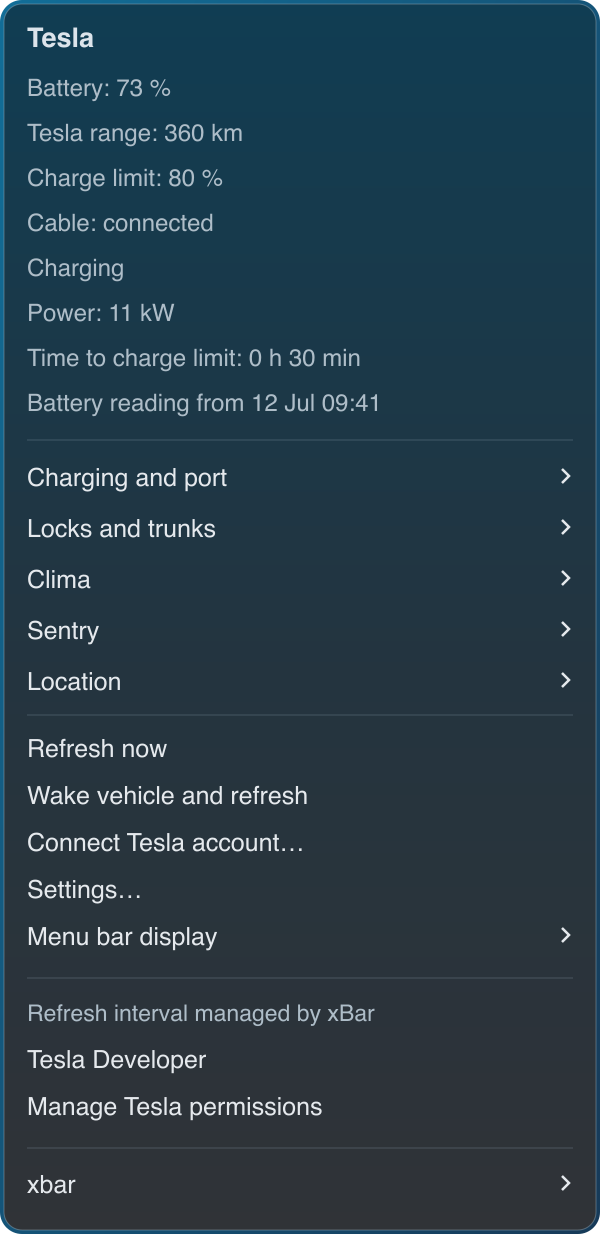
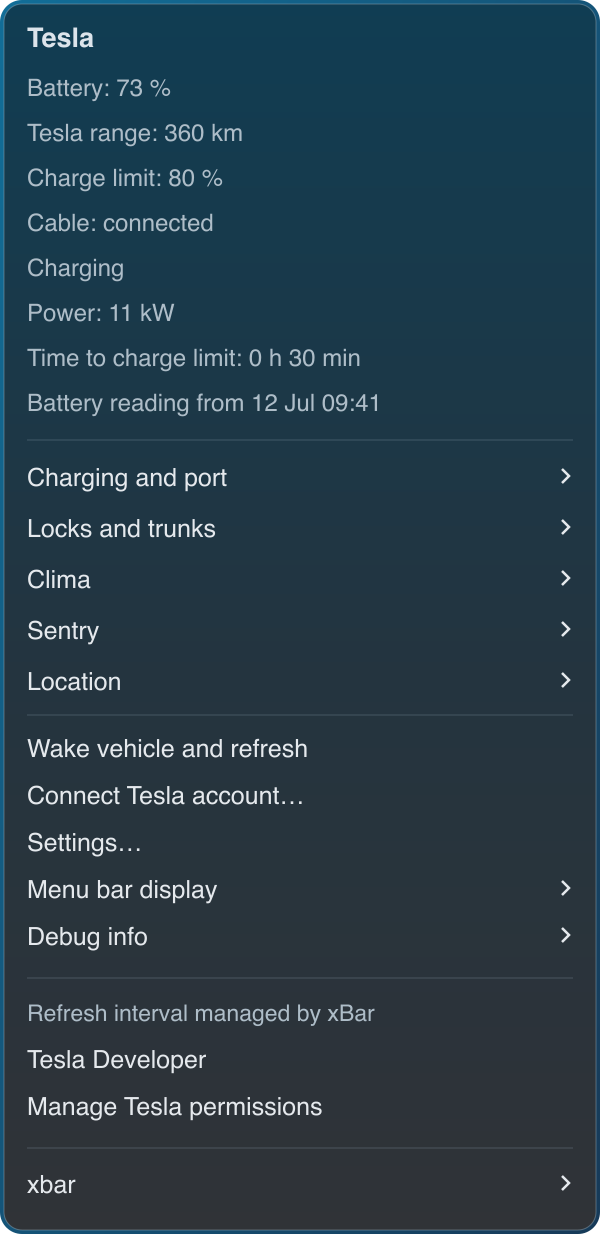
Remove separate Refresh now menu action

Changed region(s): [[0.03, 0.5851, 0.51, 0.7699], [0.93, 0.7083, 0.96, 0.7391]]

diff --git a/tests/test_polling.py b/tests/test_polling.py
@@ -177,11 +177,12 @@ class PollingTests(unittest.TestCase):
         self.assertNotIn("polling_paused", result.cache)
         self.assertEqual(self.gateway.commands, [])
 
-    def test_menu_refresh_action_is_distinct_from_the_scheduled_entrypoint(self):
+    def test_menu_uses_xbar_refresh_and_keeps_explicit_wake(self):
         menu = MenuRenderer(MenuContext(self.clock.now(), "/example/action")).render(self.baseline, self.config)
-        row = next(line for line in menu.splitlines() if line.startswith("Refresh now |"))
-        self.assertIn('param1="refresh"', row)
-        self.assertIn('terminal=false refresh=true', row)
+        self.assertNotIn("Refresh now", menu)
+        self.assertNotIn('param1="refresh"', menu)
+        self.assertIn("Wake vehicle and refresh", menu)
+        self.assertIn('param1="wake-refresh"', menu)
 
     def test_renewed_consent_allows_new_attempt_without_claiming_fresh_data(self):
         cache = self.baseline | {"consecutive_read_errors": 5, "read_retry_at": self.clock.now() + 3600}

diff --git a/scripts/render_previews.py b/scripts/render_previews.py
@@ -44,9 +44,9 @@ def divider(y):
 
 body += divider(440)
 for y, label, sub in [(486, 'Charging and port', True), (537, 'Locks and trunks', True), (588, 'Clima', True),
-                      (639, 'Sentry', True), (690, 'Location', True), (757, 'Refresh now', False),
-                      (804, 'Wake vehicle and refresh', False), (851, 'Connect Tesla account…', False),
-                      (898, 'Settings…', False), (945, 'Menu bar display', True)]:
+                      (639, 'Sentry', True), (690, 'Location', True), (757, 'Wake vehicle and refresh', False),
+                      (804, 'Connect Tesla account…', False), (851, 'Settings…', False),
+                      (898, 'Menu bar display', True), (945, 'Debug info', True)]:
     body += text(27, y, label, 25)
     if sub:
         body += f'<path d="m562 {y-17} 7 7-7 7" fill="none" stroke="#e5e9ed" stroke-width="2.5"/>'

diff --git a/tests/test_tesla_xbar.py b/tests/test_tesla_xbar.py
@@ -125,8 +125,7 @@ class Tests(unittest.TestCase):
         self.assertEqual(len(client.calls), 6)
         self.assertEqual(client.wakes, [])
         self.assertNotIn("poll_minutes", app.configuration())
-        row = next(line for line in app.render(fresh, config).splitlines() if line.startswith("Refresh now |"))
-        self.assertIn('param1="refresh"', row)
+        self.assertNotIn("Refresh now", app.render(fresh, config))
 
     def test_next_run_retries_network_or_sleep_error_without_local_delay(self):
         for error in (app.AppError("Offline"), app.APIError(408)):

diff --git a/src/tesla_bar/presentation/menu.py b/src/tesla_bar/presentation/menu.py
@@ -268,7 +268,7 @@ class MenuRenderer:
         lines.extend(self.clima_menu(cache, vehicle_action))
         lines.extend(self.sentry_menu(cache, vehicle_action))
         lines.extend(self.location_menu(cache, config))
-        lines.extend(["---", self.action("Refresh now", "refresh"),
+        lines.extend(["---",
                       vehicle_action("Wake vehicle and refresh", "wake-refresh"),
                       self.action("Connect Tesla account…", "authorize", terminal=True),
                       self.action("Settings…", "configure", terminal=True)])

diff --git a/docs/ARCHITECTURE.md b/docs/ARCHITECTURE.md
@@ -101,7 +101,7 @@ Existing behavior and adapter integration tests still cover raw Tesla responses,
 
 ## Desktop visibility and scheduling
 
-New installations use `tesla-battery.5m.sh`; updates preserve the existing filename. xBar remains the only scheduler. Every routine `menu` invocation checks `DesktopVisibility` before any Tesla or map work. The plugin’s explicit **Refresh now** uses a separate `refresh` request. The native probe has a three-second timeout; missing, malformed or failed probe results pause polling rather than silently sending requests.
+New installations use `tesla-battery.5m.sh`; updates preserve the existing filename. xBar remains the only scheduler. Every routine `menu` invocation checks `DesktopVisibility` before any Tesla or map work. The menu has no separate **Refresh now** action: built-in xBar refreshes use the same `menu` request as scheduled runs. The native probe has a three-second timeout; missing, malformed or failed probe results pause polling rather than silently sending requests.
 
 The probe checks that this user owns the console, the session is unlocked, at least one active display is awake, no display is covered by a screen-saver-level window, and AppKit reports the menu bar visible. An awake external display permits operation with the built-in display asleep. Window metadata is read without window titles or pixels. This is a desktop visibility check, not proof that this particular xBar item is unobscured by the notch or a menu-bar organizer. The private `CGSSessionScreenIsLocked` dictionary entry is isolated in this adapter; the other signals use public AppKit/CoreGraphics APIs.
 
@@ -115,9 +115,9 @@ The first valid observation and each reboot establish a baseline without acting 
 
 `observe_inactivity` additionally tracks a continuous observed absence through locked, display-off, screen-saver and inactive-console states. The start is the first plugin invocation that observes such a state; changing between them does not reset it. A return to an active desktop after strictly more than 3,600 seconds queues the same single resume opportunity as system sleep. Merely hiding the bar is not inactivity; returning from a long absence into a fullscreen/hidden-bar desktop queues the opportunity but waits until the bar becomes visible. Unknown visibility breaks the inactivity measurement instead of assuming continued absence. Changing vehicles or rebooting clears an old interval. Missing kernel information defers wake authorization until the boot/sleep baseline can be verified.
 
-These are sampled transitions: with a five-minute filename, start/end observations may lag actual lock/unlock by up to a polling interval. No historical locked period is inferred from a gap between runs or reconstructed during upgrade. Only private resume metadata changes while paused; saved vehicle readings, API times, tokens and maps remain untouched. Explicit **Refresh now** observes the actual desktop for this metadata but bypasses visibility gating for its read and never claims an automatic wake. A fresh manual read after return satisfies the queued event on the following redraw. System sleep and observed inactivity from the same absence share one pending record and cannot produce two wakes.
+These are sampled transitions: with a five-minute filename, start/end observations may lag actual lock/unlock by up to a polling interval. No historical locked period is inferred from a gap between runs or reconstructed during upgrade. Only private resume metadata changes while paused; saved vehicle readings, API times, tokens and maps remain untouched. The legacy CLI `refresh` entrypoint observes the actual desktop for this metadata but bypasses visibility gating for its read and never claims an automatic wake. A fresh manual read after return satisfies the queued event on the following redraw. System sleep and observed inactivity from the same absence share one pending record and cannot produce two wakes.
 
-The service persists consumption **before** dispatch, so errors, uncertain network results, process crashes and later xBar runs never replay that event's wake. `wake_and_refresh` checks the retry deadline before constructing a gateway and again after the availability read. It verifies the selected vehicle, skips wake if already online, otherwise sends at most one wake and waits up to 90 seconds with five-second status checks. The final refresh performs one combined live-data read; the ordinary refresh branch does not run again in the same invocation. A failed attempt retains old readings and requires another long inactivity/sleep period or an explicit user action to wake again. Manual **Refresh now** itself remains read-only. No observer, background daemon or second scheduler is added. Debug info reports the current inactivity start, latest observed inactivity/sleep durations and pending/attempted/already-refreshed status; “attempted” describes the flow, not a guarantee that a wake was sent or the car supplied fresh data.
+The service persists consumption **before** dispatch, so errors, uncertain network results, process crashes and later xBar runs never replay that event's wake. `wake_and_refresh` checks the retry deadline before constructing a gateway and again after the availability read. It verifies the selected vehicle, skips wake if already online, otherwise sends at most one wake and waits up to 90 seconds with five-second status checks. The final refresh performs one combined live-data read; the ordinary refresh branch does not run again in the same invocation. A failed attempt retains old readings and requires another long inactivity/sleep period or an explicit user action to wake again. The legacy CLI `refresh` remains read-only and is not exposed in the menu. No observer, background daemon or second scheduler is added. Debug info reports the current inactivity start, latest observed inactivity/sleep durations and pending/attempted/already-refreshed status; “attempted” describes the flow, not a guarantee that a wake was sent or the car supplied fresh data.
 
 ## Read failure state
 
@@ -126,11 +126,11 @@ The service persists consumption **before** dispatch, so errors, uncertain netwo
 The domain activates a warning at three failures, suppresses cable/range colors and live status icons, and chooses the standalone `api-error` template image. The pure menu renderer replaces the top value with a unit-aware dash and describes the saved readings below. Last successful values and their timestamps remain intact. Debug info exposes the failure count. The indicator itself adds no requests or timer; retry timing follows the policy below.
 
 
-## Retry backoff and explicit refresh
+## Retry backoff and legacy refresh compatibility
 
 The domain's `polling.py` chooses 15 minutes after the third failed refresh, 30 after the fourth, and 60 after every subsequent failure. `VehicleService` saves an absolute `read_retry_at` after a failed attempt finishes. The effective deadline is the later of that value and Tesla's rate-limit `retry_at`. Early xBar runs return saved state before constructing a gateway, token renewal or map/address work; they neither increment the failure count nor move the deadline. The existing private operation lock serializes attempts. No sleeping worker or second scheduler exists. A successful refresh or normal unavailable-vehicle result clears the error deadline; renewed consent clears local backoff but retains the warning until a successful vehicle check. Actual unexpired server advice remains binding.
 
-The plugin's **Refresh now** dispatches `refresh`, while the wrapper always dispatches `menu` for scheduled and built-in xBar refreshes. The explicit action bypasses desktop gating and local error backoff, but still respects a server-directed `Retry-After`; it never wakes the vehicle. A failed manual attempt advances the error series and schedules the next automatic attempt. After completion, `PluginService` saves `manual_refresh_completed_at`: ordinary menu invocations within five seconds reuse this result so xBar's immediate `refresh=true` redraw does not duplicate the read. Another explicit click always attempts again. This short result-reuse window does not alter xBar's normal interval or delay recovery for a whole scheduled cycle.
+The wrapper always dispatches `menu` for scheduled and built-in xBar refreshes, including the pending Mac-resume wake rule. The separate **Refresh now** menu item has been removed. The legacy CLI `refresh` entrypoint remains compatible with older callers. The explicit action bypasses desktop gating and local error backoff, but still respects a server-directed `Retry-After`; it never wakes the vehicle. A failed manual attempt advances the error series and schedules the next automatic attempt. After completion, `PluginService` saves `manual_refresh_completed_at`: ordinary menu invocations within five seconds reuse this result so xBar's immediate `refresh=true` redraw does not duplicate the read. Another explicit CLI invocation always attempts again. This short result-reuse window does not alter xBar's normal interval or delay recovery for a whole scheduled cycle.
 
 The Python HTTP adapter attaches typed `RetryAdvice` to surfaced remote errors: the actual Retry-After value (bounded to 256 characters), its receipt timestamp and a parsed seconds/date delay. `VehicleService` retains the latest advice in the private state record as `tesla_retry_after`, including after expiry or recovery. Missing headers do not erase earlier evidence; invalid values have no computed server deadline. The policy honors the receipt-based deadline even for non-429 errors and explicit manual refresh. A 401 renewal retry or location-permission fallback cannot immediately bypass valid server advice. Debug info renders the raw value safely, receipt time, waiting/elapsed deadline and the policy responsible for the final retry time. No other response headers, body, tokens or identifiers are stored by this feature.
 

diff --git a/docs/API_USAGE.md b/docs/API_USAGE.md
@@ -1,6 +1,6 @@
 # API usage review
 
-Review date: 2026-10-07. This is a source-level request audit, not a historical billing report or a capture of a user's vehicle responses. Implemented savings include desktop visibility gating, the five-minute default, progressive error backoff and reuse of the plugin's explicit Refresh now result during the immediate menu redraw. The remaining proposals below are **not** implemented.
+Review date: 2026-10-08. This is a source-level request audit, not a historical billing report or a capture of a user's vehicle responses. Implemented savings include desktop visibility gating, the five-minute default and progressive error backoff. The remaining proposals below are **not** implemented.
 
 ## Requests in one invocation
 
@@ -12,8 +12,7 @@ Counts assume valid cached authorization, no concurrent action and no API error 
 | Visible desktop, vehicle asleep/offline | **1**: `GET /api/1/vehicles` | A missing map may be retrieved for the previously saved position if explicitly enabled |
 | Visible desktop, vehicle online | **2**: vehicle list, then one combined `vehicle_data` request | Address lookup or map download only when needed |
 | Local error backoff or Tesla rate-limit retry time still in the future | **0** | **0**; saved map/readings only |
-| Plugin's explicit Refresh now | Normal availability/live requests, bypassing local error backoff; Tesla's rate-limit deadline is still honored | Normal location/map work if needed |
-| Immediate xBar redraw after the plugin's Refresh now | **0** for five seconds after the action completes | **0**; reuse the manual result |
+| Built-in xBar refresh / Refresh All | Same rules and request counts as a scheduled invocation, including any pending Mac-resume wake | Same as a scheduled invocation |
 | Access token due to expire | **+1** OAuth renewal, normally reused by the rest of the invocation | None |
 | HTTP 401 without an active Retry-After | One forced OAuth renewal and one retry of that request | None |
 | Location-inclusive live read returns HTTP 403 without an active Retry-After | **3** total: list, rejected combined read, combined read without location | No new location lookup |
@@ -23,11 +22,13 @@ Counts assume valid cached authorization, no concurrent action and no API error 
 
 The last row is **five reads plus the command transport**. A legacy REST command adds one request, for six total before xBar's follow-up refresh. Signed commands may need session negotiation/retries inside Tesla's SDK, so one CLI execution is not necessarily one HTTP request. Climate power transitions can send two commands. Ordinary polling never invokes the command SDK or wake endpoint. The one-shot Mac-resume exception uses the wake endpoint after more than an hour of observed inactivity (lock, display-off, screen saver or inactive session) or recorded system sleep; it does not run on every poll.
 
-After three failed refresh attempts, the next automatic attempt waits 15 minutes, then 30 minutes after the next failure, then one hour after each further failure. Waiting invocations do not advance the failure count or deadline. This applies to access/billing failures, network errors, invalid readings and rate limits (including those without `Retry-After`); a longer server deadline wins. Normal offline/asleep/unavailable-vehicle responses reset the error state. The plugin's own **Refresh now** is a separate explicit action; built-in xBar refreshes cannot bypass the local wait. Debug info shows the earliest retry time, subject to the next visible xBar run.
+After three failed refresh attempts, the next automatic attempt waits 15 minutes, then 30 minutes after the next failure, then one hour after each further failure. Waiting invocations do not advance the failure count or deadline. This applies to access/billing failures, network errors, invalid readings and rate limits (including those without `Retry-After`); a longer server deadline wins. Normal offline/asleep/unavailable-vehicle responses reset the error state. There is no separate **Refresh now** menu action; built-in xBar refreshes cannot bypass the local wait. Debug info shows the earliest retry time, subject to the next visible xBar run.
 
 For surfaced Python Fleet API/OAuth read or wake errors, the latest actual `Retry-After` header is retained with its receipt time and parsed delay. Both seconds and HTTP dates are supported, including on non-429 errors such as 503 or 403. Debug info shows the original value, server deadline, waiting/elapsed state and which policy controls the next automatic attempt. This is one saved advice record, not a response log; expired advice remains visible with its original timestamp. An absent header is not invented, and unparseable advice is displayed without creating a server deadline. Historical responses from before this feature cannot be reconstructed. Signed-command SDK response headers are not exposed by the CLI and are not included.
 
 Sources: [`vehicle.py`](../src/tesla_bar/application/vehicle.py), [`commands.py`](../src/tesla_bar/application/commands.py), [`gateway.py`](../src/tesla_bar/infrastructure/gateway.py), [`api.py`](../src/tesla_bar/infrastructure/api.py), [`auth.py`](../src/tesla_bar/infrastructure/auth.py).
+
+The legacy CLI `refresh` entrypoint remains compatible with older callers but is not exposed in the menu. It bypasses visibility/local backoff, honors Tesla retry advice, never claims a wake, and reuses its result during an immediate menu redraw. Use the normal `menu` entrypoint to rerun the plugin with scheduled behavior.
 
 ## Volume and payload
 

diff --git a/README.md b/README.md
@@ -49,11 +49,11 @@ Open **Sentry** for on/off controls and **Location** for the address, optional m
 - **Last known data:** asleep and offline readings keep the saved range or percentage and add a small trailing dot, such as `360 km ·` or `73% ·`. A last known connected cable stays green, and unplugged readings keep the normal range colors. The connection state and original reading timestamp stay visible in the menu.
 - **Repeated read failures:** after three consecutive failed refreshes, a monochrome circled exclamation replaces live indicators and the label becomes `— km`, `— mi` or `—%` in the native text color. The menu keeps the last known readings and their original timestamp. Successful refreshes clear the warning; confirmed offline/asleep states and unavailable-vehicle responses do not count as failures. Paused/skipped runs leave the count unchanged.
 - **Error backoff:** after the third failed refresh, the next automatic attempt waits 15 minutes; another failure waits 30 minutes, then further failures wait one hour each. xBar still runs on its usual schedule, displaying saved state until the deadline. Success resets the backoff. Tesla's longer `Retry-After` takes precedence.
-- **One refresh schedule:** new installs default to five minutes (`5m`); xBar's filename controls routine polling. The plugin's **Refresh now** explicitly attempts API access immediately, bypassing local error backoff but honoring Tesla's `Retry-After`. Built-in xBar refresh/Refresh All still obey backoff. No resident retry timer or invented monthly quota.
+- **One refresh schedule:** new installs default to five minutes (`5m`); xBar's filename controls routine polling. Use xBar's built-in refresh/Refresh All to rerun the plugin with the same visibility, backoff and Mac-resume rules as a scheduled run. There is no separate **Refresh now** menu action. No resident retry timer or invented monthly quota.
 - **Pause when hidden:** automatic refresh uses saved data when displays are asleep, the session is locked/inactive, a screen saver covers a display, or macOS reports the menu bar hidden. No Tesla, token-renewal, address or map request is made by that refresh. Polling resumes on the next visible xBar run.
 - **Debug info:** the latest two plugin runs and latest two dispatched Tesla API requests, with local millisecond timestamps, plus the number of consecutive failed refreshes and the next automatic retry's earliest time. Recorded Tesla `Retry-After` advice shows its original value, receipt time, deadline and whether it is still active; the menu identifies whether Tesla or local backoff controls the next attempt. The request runs on the first visible xBar invocation at or after that time. Paused runs advance only the plugin times; error responses still count as API requests.
 - **Wake after Mac inactivity:** after more than one hour of observed lock, display-off, screen saver or inactive user session, the first eligible visible xBar run checks the selected car, wakes it once if needed and reads fresh data. Recorded system sleep also qualifies. Existing retry deadlines still apply. Inactivity is measured at plugin runs (five minutes by default), so transitions are approximate. Merely hiding the menu bar or stopping xBar does not start inactivity. First use/reboot establishes a baseline. Debug info shows the inactivity start/duration and pending/attempted resume refresh.
-- **Explicit commands:** wake and refresh, start/stop charging, open/close the charge port, climate and Sentry controls, lock/unlock, and front/rear trunk controls. Other routine refreshes and the plugin’s **Refresh now** only read vehicle state. The Mac-resume rule above is the sole automatic wake exception.
+- **Explicit commands:** wake and refresh, start/stop charging, open/close the charge port, climate and Sentry controls, lock/unlock, and front/rear trunk controls. Other routine refreshes only read vehicle state. The Mac-resume rule above is the sole automatic wake exception.
 - **Clima submenu:** normal climate, Keep Climate On, Camp Mode, Pet Mode, temperature selection in 0.5 °C steps, modes off, and full climate/modes off. Temperature choices use the limits reported by the vehicle and set both front zones; changing the target alone does not turn climate on. Normal climate and full shutdown exit an active keeper mode first. Clicked actions can wake an unavailable vehicle before sending the command.
 - **Sentry submenu:** turn Sentry on or off using the existing Vehicle Commands permission. The active icon uses the same size, monochrome tint and placement as the other indicators.
 - **Locks and trunks submenu:** lock/unlock the vehicle, open the front trunk and toggle the rear trunk, with current or last-known lock and trunk readings. Actions use the existing Vehicle Commands permission and signing key. A rear-trunk toggle follows the vehicle's current position; it is never retried automatically after an uncertain result. Rear closing requires vehicle support.

diff --git a/docs/SETUP.md b/docs/SETUP.md
@@ -97,7 +97,7 @@ When upgrading from a version without Clima controls, use the full installer
 
 Choose **Charging and port → Add key to vehicle…**, open the link on a phone with the Tesla app and approve the key for the correct vehicle. The link uses your configured domain. Then choose **Check command setup**.
 
-Test physical commands yourself when appropriate. **Start charging**, **Stop charging** and port actions can wake the vehicle. Ordinary **Refresh now** does not send wake commands. Opening a port is not a physical cable-removal mechanism.
+Test physical commands yourself when appropriate. **Start charging**, **Stop charging** and port actions can wake the vehicle. Use **Wake vehicle and refresh** when you explicitly want to wake the car and read fresh data. Opening a port is not a physical cable-removal mechanism.
 
 The **Locks and trunks** submenu groups **Lock vehicle**, **Unlock vehicle**,
 **Open front trunk** and **Open / close rear trunk**. It uses the same Vehicle
@@ -162,7 +162,7 @@ The map preview uses `location_map_enabled` (default `false`) and the `tesla-map
 
 ## Refresh only while the desktop is visible
 
-New installations refresh every five minutes. Change the interval through xBar's plugin management; the installer preserves existing intervals. The plugin’s explicit **Refresh now** bypasses visibility and local error backoff, but still honors Tesla Retry-After; it does not wake the car. Automatic requests pause while displays are asleep, your session is locked/inactive, a screen saver covers a display, or macOS reports the menu bar hidden. Saved readings and their original timestamps remain available. Updates resume at the next xBar run after the desktop is visible again (up to the configured interval), or when you choose **Refresh now**.
+New installations refresh every five minutes. Change the interval through xBar's plugin management; the installer preserves existing intervals. Use xBar’s built-in refresh/Refresh All to rerun the plugin with the same visibility, retry and Mac-resume rules as a scheduled run. The plugin has no separate **Refresh now** menu action. Automatic requests pause while displays are asleep, your session is locked/inactive, a screen saver covers a display, or macOS reports the menu bar hidden. Saved readings and their original timestamps remain available. Updates resume at the next xBar run after the desktop is visible again (up to the configured interval), or when you rerun the plugin through xBar while the desktop is visible and retry deadlines permit it.
 
 If the menu reports **desktop visibility unavailable**, update the installation so `tesla-visibility` is present. The helper needs no Screen Recording or Accessibility permission. A failed probe pauses routine requests; explicit vehicle controls still operate when you choose them. An already running request may finish when the screen turns off.
 

diff --git a/docs/CHANGELOG.md b/docs/CHANGELOG.md
@@ -4,6 +4,8 @@ Release tags use `vMAJOR.MINOR.PATCH`; the installed xBar plugin metadata uses t
 
 ## Unreleased
 
+- Remove the separate **Refresh now** menu item. Use xBar’s built-in refresh to rerun normal plugin logic, or **Wake vehicle and refresh** to request an explicit wake. Update the menu preview and usage documentation; keep the legacy CLI entrypoint compatible.
+
 - Include observed lock, display-off, screen-saver and inactive-session periods in the one-hour Mac-resume wake rule. Track inactivity without Tesla traffic, merge it with system sleep into one wake opportunity, and expose its start/duration in Debug info.
 
 - Wake the selected vehicle once if needed after a recorded Mac system sleep longer than one hour, at the next eligible visible xBar run. Preserve retry deadlines and operation locking, avoid replay after failed/uncertain attempts, and show resume status in Debug info.
